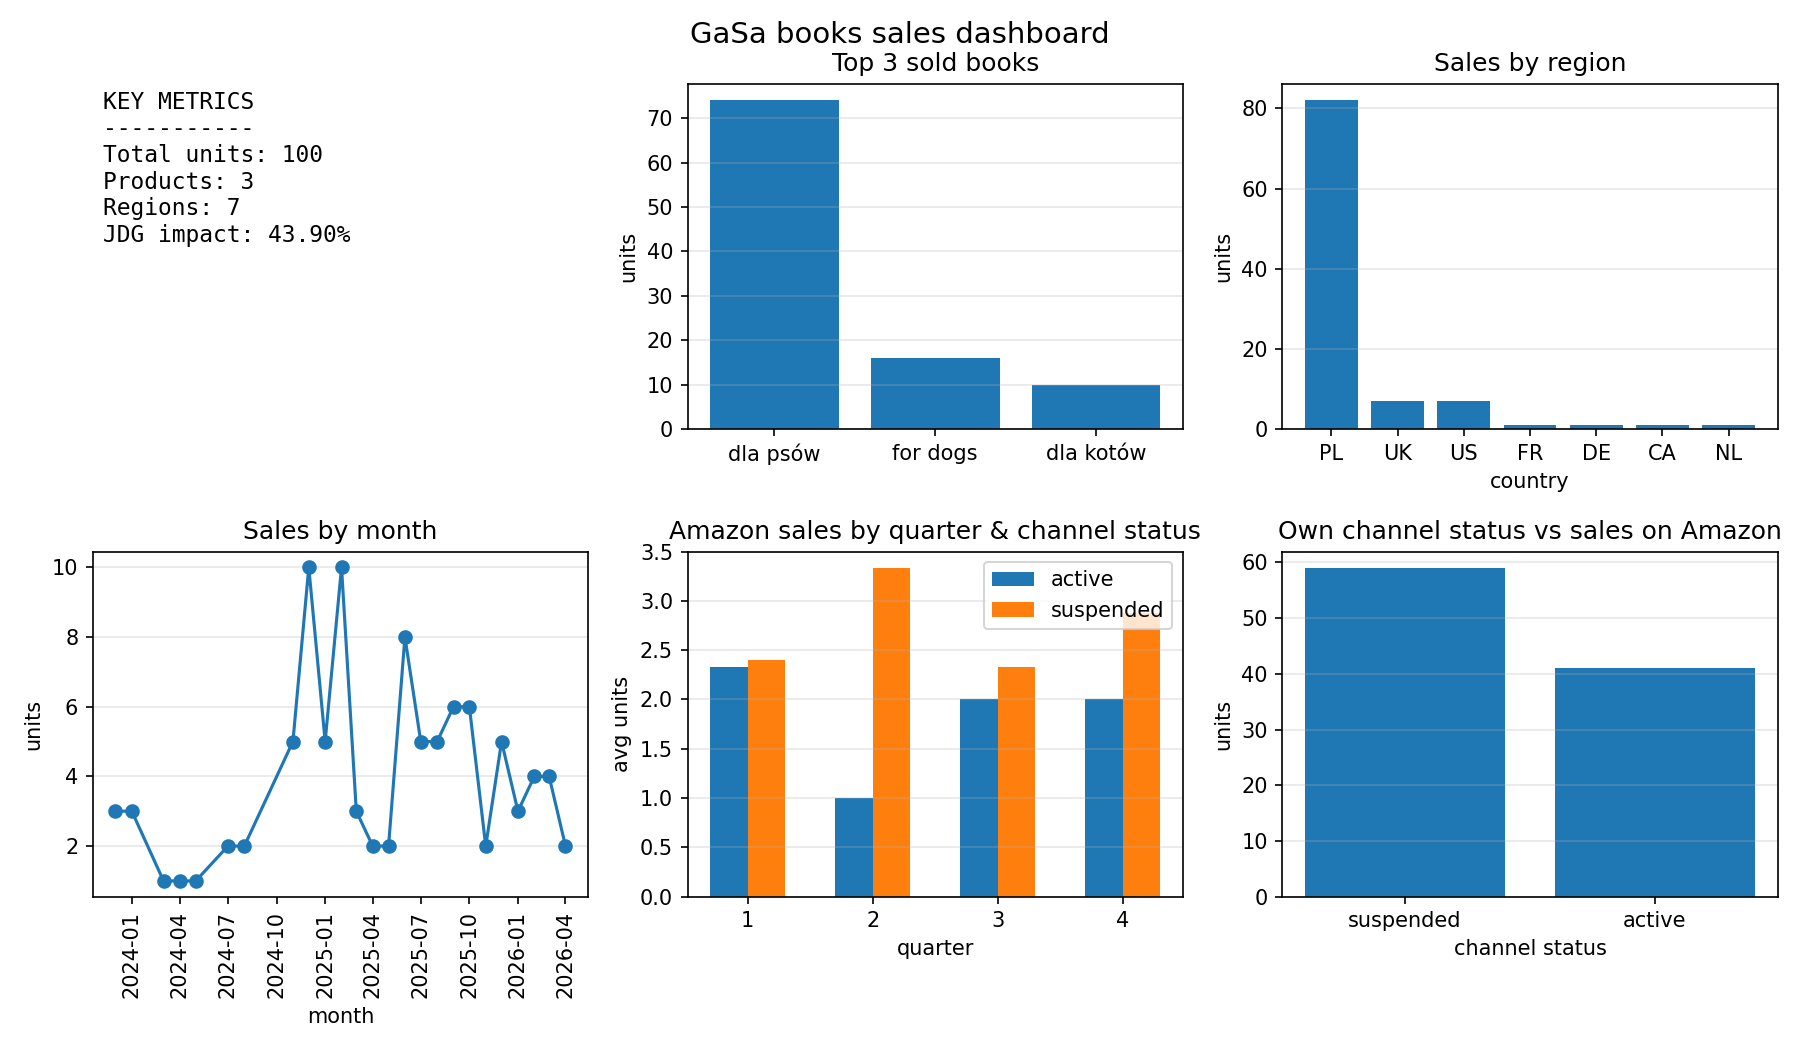
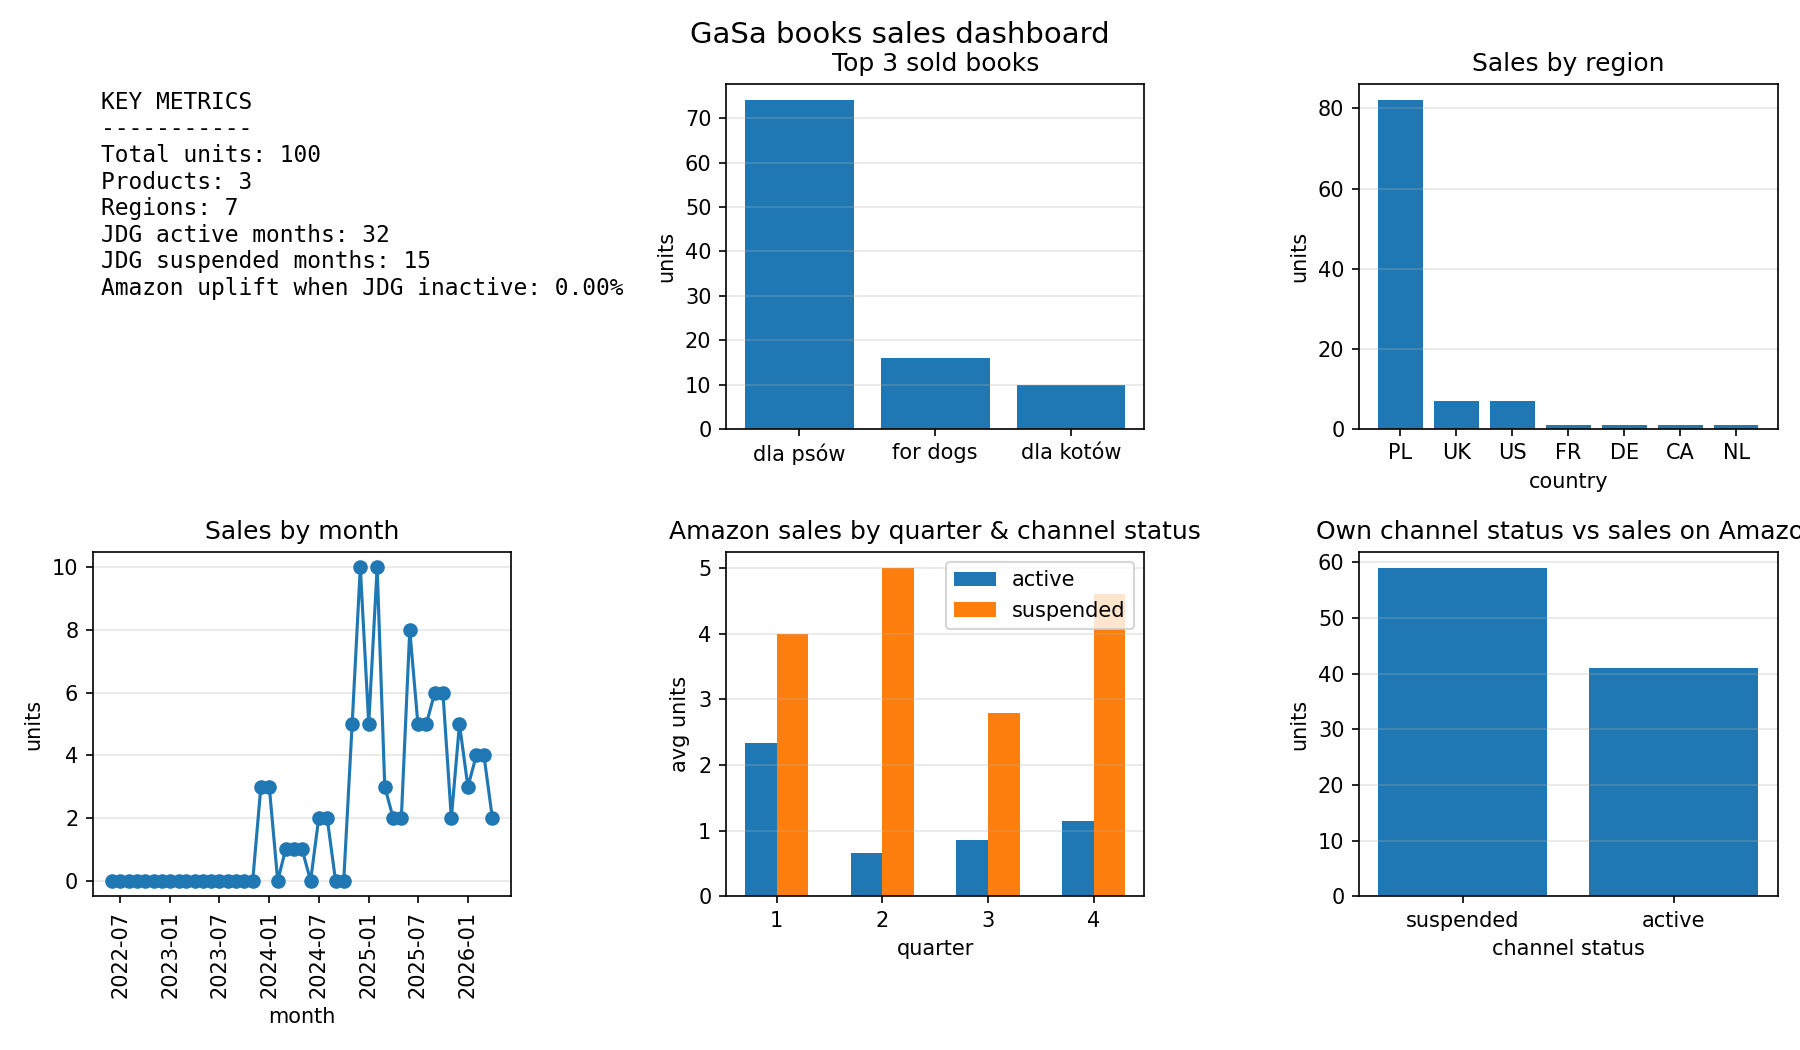
normalizing: own status impact and seasonality

diff --git a/src/analyzer.py b/src/analyzer.py
@@ -6,6 +6,7 @@ from config.products import ASIN_TO_BOOK
 from config.status import STATUS_MAP
 from config.regions import MARKETPLACE_TO_REGION
 
+
 class BaseAnalyzer:
     def __init__(self, df):
         self.df = df.copy()
@@ -39,6 +40,11 @@ class BaseAnalyzer:
     def _add_status(self):
         self.df["channel_status"] = self.df["own_channel_active"].map(STATUS_MAP)
 
+
+# ======================
+# KPI ANALYZER
+# ======================
+
 class KPIAnalyzer(BaseAnalyzer):
 
     def kpis(self):
@@ -46,17 +52,96 @@ class KPIAnalyzer(BaseAnalyzer):
             "total_units": int(self.df["units"].sum()),
             "distinct_products": int(self.df["asin"].nunique()),
             "distinct_regions": int(self.df["region"].nunique()),
-            "cannibalization_impact": self._status_impact()
+
+            # NOTE: zmieniona interpretacja → to NIE "impact JDG"
+            "channel_substitution_effect": self._status_impact(),
+
+            # NEW: wersja oczyszczona z sezonowości
+            "channel_substitution_effect_normalized": self._status_impact_normalized()
         }
 
+    # ======================
+    # FIX: liczymy na poziomie miesięcy (eliminuje bias liczby rekordów)
+    # ======================
     def _status_impact(self):
-        active = self.df[self.df["own_channel_active"] == 1]["units"].mean()
-        suspended = self.df[self.df["own_channel_active"] == 0]["units"].mean()
+        df = self.df.copy()
+
+        # 🔥 agregacja do poziomu miesiąc + status
+        monthly = (
+            df.groupby(["month", "own_channel_active"], as_index=False)
+            .agg(units=("units", "sum"))
+        )
+
+        active = monthly[monthly["own_channel_active"] == 1]["units"].mean()
+        suspended = monthly[monthly["own_channel_active"] == 0]["units"].mean()
+
+        if active == 0:
+            return 0.0
+
+        # NOTE: interpretacja = uplift Amazona gdy JDG jest wyłączone
+        return float((suspended - active) / active)
+
+    # ======================
+    # NEW: kontrola sezonowości (bardziej "fair" porównanie)
+    # ======================
+    def _status_impact_normalized(self):
+        df = self.df.copy()
+        df["quarter"] = df["month"].dt.quarter
+
+        monthly = (
+            df.groupby(["month", "own_channel_active", "quarter"], as_index=False)
+            .agg(units=("units", "sum"))
+        )
+
+        # średnia per kwartał → redukcja wpływu sezonowości
+        by_q = (
+            monthly.groupby(["own_channel_active", "quarter"], as_index=False)
+            .agg(avg_units=("units", "mean"))
+        )
+
+        active = by_q[by_q["own_channel_active"] == 1]["avg_units"].mean()
+        suspended = by_q[by_q["own_channel_active"] == 0]["avg_units"].mean()
 
         if active == 0:
             return 0.0
 
         return float((suspended - active) / active)
+
+    # ======================
+    # NEW: ile miesięcy active vs suspended (bez biasu!)
+    # ======================
+    def activity_split(self, df_own_activity):
+        df = df_own_activity.copy()
+
+        counts = df["own_channel_active"].value_counts().to_dict()
+
+        return {
+            "active_months": int(counts.get(1, 0)),
+            "suspended_months": int(counts.get(0, 0)),
+            "total_months": int(len(df))
+        }
+
+    # ======================
+    # NEW: sanity check → realne wartości średnie
+    # ======================
+    def raw_averages(self):
+        df = self.df.copy()
+
+        monthly = (
+            df.groupby(["month", "own_channel_active"], as_index=False)
+            .agg(units=("units", "sum"))
+        )
+
+        return (
+            monthly.groupby("own_channel_active")["units"]
+            .mean()
+            .to_dict()
+        )
+
+
+# ======================
+# AGGREGATIONS
+# ======================
 
 class AggregationAnalyzer(BaseAnalyzer):
 
@@ -85,16 +170,29 @@ class AggregationAnalyzer(BaseAnalyzer):
             .sort_values("month")
         )
 
+    # ======================
+    # FIX: seasonality liczona per miesiąc, nie per rekord
+    # ======================
     def seasonality(self):
         df = self.df.copy()
         df["quarter"] = df["month"].dt.quarter
 
+        monthly = (
+            df.groupby(["month", "own_channel_active", "quarter"], as_index=False)
+            .agg(units=("units", "sum"))
+        )
+
         return (
-            df.groupby(["own_channel_active", "quarter"], as_index=False)
+            monthly.groupby(["own_channel_active", "quarter"], as_index=False)
             .agg(avg_units=("units", "mean"))
             .sort_values(["quarter", "own_channel_active"])
         )
-    
+
+
+# ======================
+# CANNIBALIZATION / EFFECT ANALYSIS
+# ======================
+
 class CannibalizationAnalyzer(BaseAnalyzer):
 
     def sales_by_channel_status(self):
@@ -113,3 +211,15 @@ class CannibalizationAnalyzer(BaseAnalyzer):
             "suspended_avg": float(suspended.mean()),
             "difference": float(suspended.mean() - active.mean())
         }
+
+    # ======================
+    # NEW: tylko miesiące ACTIVE (uczciwe porównanie)
+    # ======================
+    def sales_when_active_only(self):
+        df = self.df[self.df["own_channel_active"] == 1]
+
+        return (
+            df.groupby("book", as_index=False)
+            .agg(avg_units=("units", "mean"))
+            .sort_values("avg_units", ascending=False)
+        )

diff --git a/src/cleaner.py b/src/cleaner.py
@@ -10,12 +10,7 @@ class Cleaner:
 
     def _standarize_columns(self, df):
         df = df.copy()
-        new_cols = []
-        for column in df.columns:
-            clean_name = column.strip().lower()
-            new_cols.append(clean_name)
-        
-        df.columns = new_cols
+        df.columns = [c.strip().lower() for c in df.columns]
         return df
     
     def clean_sales(self, df_sales):
@@ -28,18 +23,17 @@ class Cleaner:
         df = df[df["units"] >= 0]
         df = df[df["month"].notna()]
 
-        df = df.reset_index(drop=True)
-
-        return df
+        return df.reset_index(drop=True)
 
     def clean_jdg(self, df_jdg):
         df = self._standarize_columns(df_jdg)
 
         df["month"] = pd.to_datetime(df["miesiac"], errors="coerce")
 
+        # ✅ ZOSTAWIAMY: active=1, suspended=0 (logiczne)
         df["own_channel_active"] = (
             df["jdg"]
-            .fillna("active") # NaN = active
+            .fillna("active")
             .str.lower()
             .str.strip()
             .map({
@@ -52,14 +46,24 @@ class Cleaner:
             unknown = df[df["own_channel_active"].isna()]["jdg"].unique()
             raise ValueError(f"Unknown JDG values: {unknown}")
 
-        df = df[["month", "own_channel_active"]]
+        df["is_active"] = df["own_channel_active"] == 1
 
-        return df
-    
+        return df[["month", "own_channel_active", "is_active"]]
+
     def enrich_sales_with_own_activity(self, df_sales, df_own_activity):
-        merged = df_sales.merge(
-            df_own_activity[["month", "own_channel_active"]],
+        # 🔥 NEW: FULL TIMELINE (KLUCZOWA ZMIANA)
+        # baza = wszystkie miesiące z JDG (source of truth)
+        merged = df_own_activity.merge(
+            df_sales,
             on="month",
             how="left"
         )
+
+        # brak sprzedaży = 0 (realne zero, nie brak danych)
+        merged["units"] = merged["units"].fillna(0)
+
+        # FIX: status zawsze istnieje (bo pochodzi z JDG)
+        merged["own_channel_active"] = merged["own_channel_active"].fillna(1)
+        merged["is_active"] = merged["is_active"].fillna(True)
+
         return merged

diff --git a/src/visualizer.py b/src/visualizer.py
@@ -15,7 +15,9 @@ def plot_kpis(ax, kpis: dict):
         f"Total units: {kpis.get('total_units', 0):,}",
         f"Products: {kpis.get('distinct_products', 0)}",
         f"Regions: {kpis.get('distinct_regions', 0)}",
-        f"JDG impact: {kpis.get('cannibalization_impact', 0):.2%}"
+        f"JDG active months: {kpis.get('active_months', 0)}",        # NEW
+        f"JDG suspended months: {kpis.get('suspended_months', 0)}",  # NEW
+        f"Amazon uplift when JDG inactive: {kpis.get('cannibalization_impact', 0):.2%}"
     ]
 
     ax.text(

diff --git a/src/main.py b/src/main.py
@@ -25,6 +25,11 @@ agg_analyzer = AggregationAnalyzer(sales_enriched)
 cannibal_analyzer = CannibalizationAnalyzer(sales_enriched)
 
 kpis = kpi_analyzer.kpis()
+
+# NEW: dodajemy split miesięcy active vs suspended
+activity_stats = kpi_analyzer.activity_split(own_activity)
+kpis.update(activity_stats)
+
 by_prod = agg_analyzer.by_product()
 by_reg = agg_analyzer.by_region()
 by_month = agg_analyzer.by_month()
